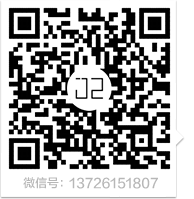
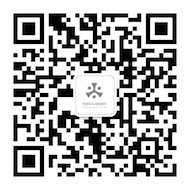
更新二维码

diff --git a/index.html b/index.html
@@ -285,7 +285,7 @@
 <script src='views/IMJ2V2/js/jquery.qrcode.min.js'></script>
 <script type="text/javascript">
 $(function(){
-	var str = "http://www.imj2.com";
+	var str = "http://www.iraccoon.cn";
 		$("#code").qrcode({
 			render: "table",
 			width: 100,
